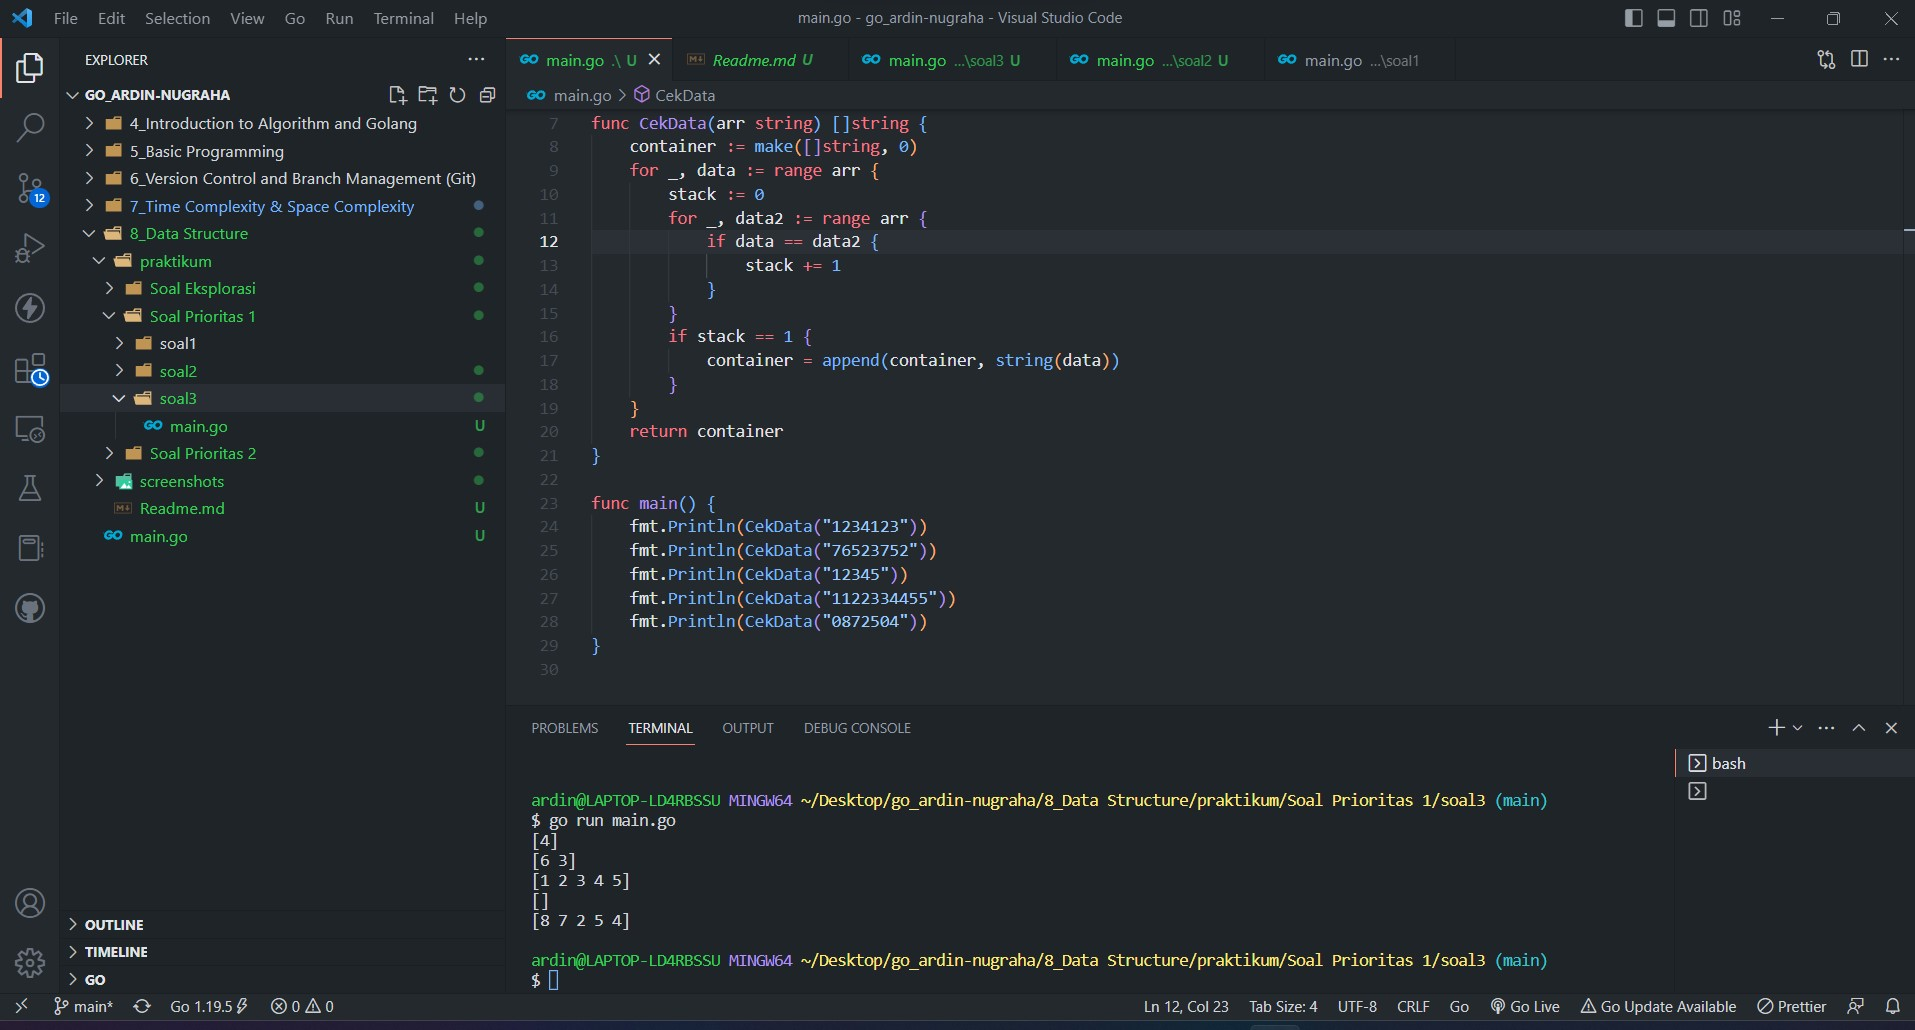
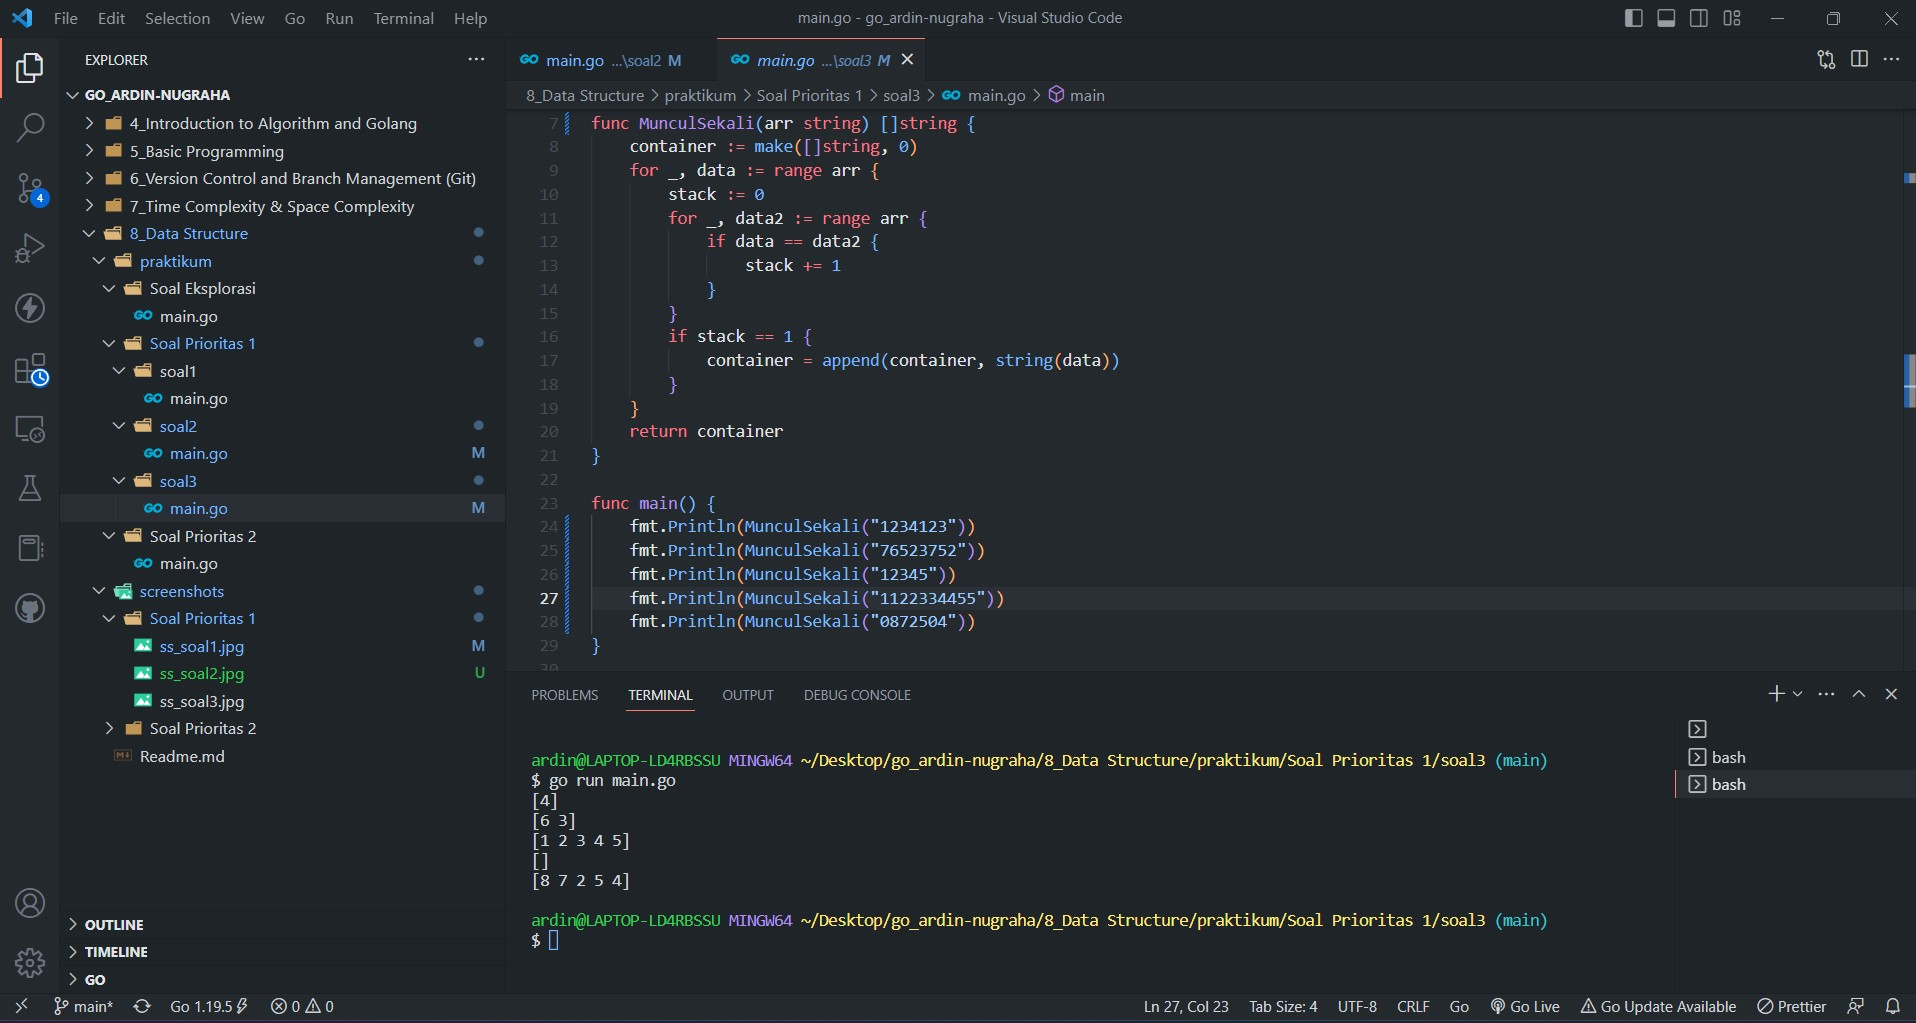
update ss jawaban

diff --git a/8_Data Structure/praktikum/Soal Prioritas 1/soal2/main.go b/8_Data Structure/praktikum/Soal Prioritas 1/soal2/main.go
@@ -4,7 +4,7 @@ import (
 	"fmt"
 )
 
-func CekData(arr []string) map[string]int {
+func Mapping(arr []string) map[string]int {
 	var container map[string]int
 	container = map[string]int{}
 	for _, data := range arr {
@@ -20,7 +20,7 @@ func CekData(arr []string) map[string]int {
 }
 
 func main() {
-	fmt.Println(CekData([]string{"asd", "qwe", "asd", "adi", "qwe", "qwe"}))
-	fmt.Println(CekData([]string{"ardin", "nugraha", "ardin"}))
-	fmt.Println(CekData([]string{}))
+	fmt.Println(Mapping([]string{"asd", "qwe", "asd", "adi", "qwe", "qwe"}))
+	fmt.Println(Mapping([]string{"asd", "qwe", "asd"}))
+	fmt.Println(Mapping([]string{}))
 }

diff --git a/8_Data Structure/praktikum/Soal Prioritas 1/soal3/main.go b/8_Data Structure/praktikum/Soal Prioritas 1/soal3/main.go
@@ -4,7 +4,7 @@ import (
 	"fmt"
 )
 
-func CekData(arr string) []string {
+func MunculSekali(arr string) []string {
 	container := make([]string, 0)
 	for _, data := range arr {
 		stack := 0
@@ -21,9 +21,9 @@ func CekData(arr string) []string {
 }
 
 func main() {
-	fmt.Println(CekData("1234123"))
-	fmt.Println(CekData("76523752"))
-	fmt.Println(CekData("12345"))
-	fmt.Println(CekData("1122334455"))
-	fmt.Println(CekData("0872504"))
+	fmt.Println(MunculSekali("1234123"))
+	fmt.Println(MunculSekali("76523752"))
+	fmt.Println(MunculSekali("12345"))
+	fmt.Println(MunculSekali("1122334455"))
+	fmt.Println(MunculSekali("0872504"))
 }
